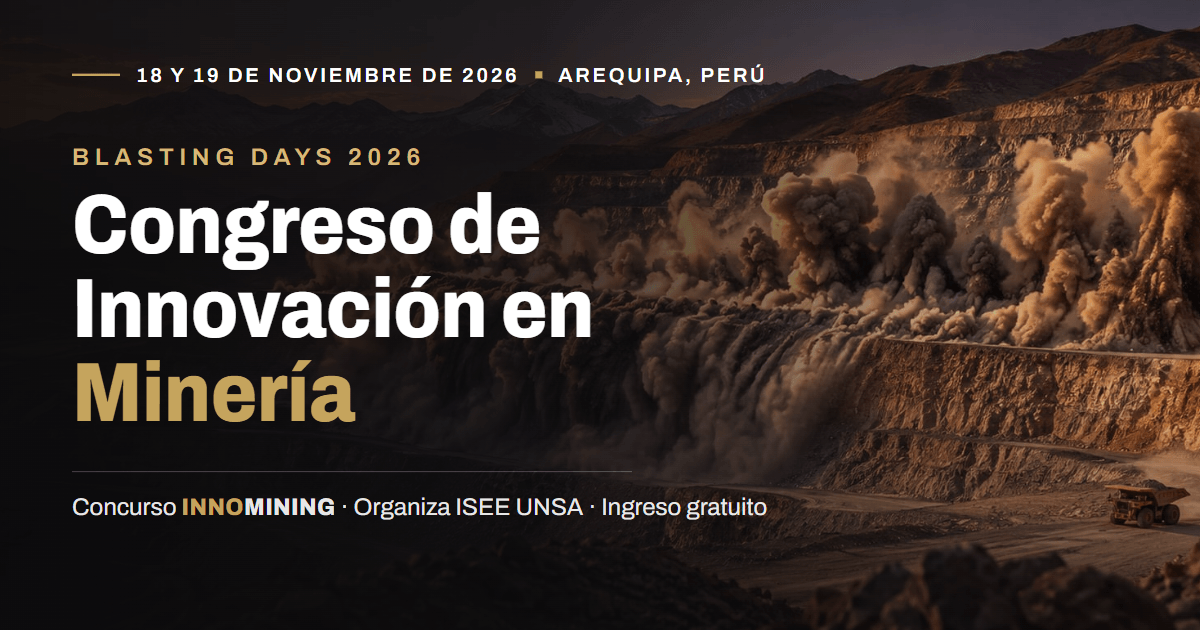
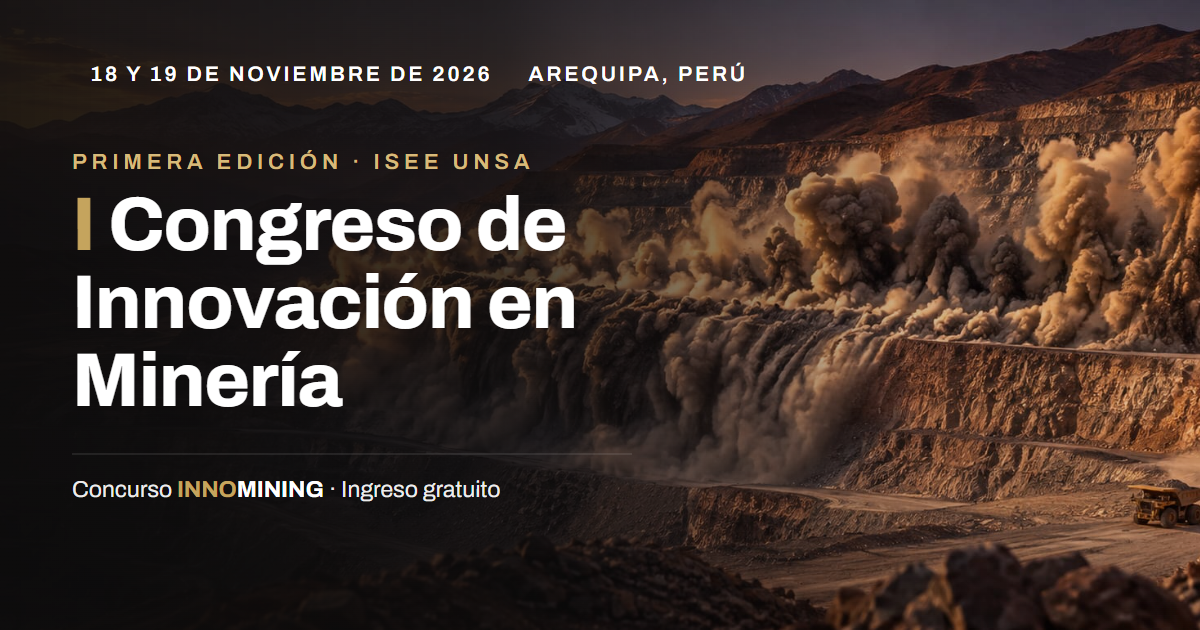
Nombre del evento: I Congreso de Innovación en Minería
Se retira la marca BLASTING DAYS: titulo con numeracion romana, linea 'Primera edicion · 2026', imagen para redes y calendario actualizados.

diff --git a/README.md b/README.md
@@ -1,6 +1,6 @@
-# Congreso de Innovación en Minería · BLASTING DAYS 2026
+# I Congreso de Innovación en Minería · ISEE UNSA 2026
 
-Organiza ISEE UNSA (Student Chapter); sede anfitriona: Universidad Nacional de San Agustín de Arequipa. 18 y 19 de noviembre de 2026, Arequipa, ingreso gratuito. "BLASTING DAYS 2026" es la marca pequeña (kicker) que acompaña al nombre del evento.
+Organiza ISEE UNSA (Student Chapter); sede anfitriona: Universidad Nacional de San Agustín de Arequipa. 18 y 19 de noviembre de 2026, Arequipa, ingreso gratuito. "Primera edición · 2026" es la línea pequeña (kicker) sobre el título.
 
 Sitio estático hecho con [Astro](https://astro.build). Incluye el congreso, ponentes (anuncio próximamente) y el concurso **INNOMINING** (Concurso de Investigación y Soluciones en Voladura, ruta `/reto/`), con dos registros: asistencia (todo público) y postulación de equipos (estudiantes y egresados UNSA).
 
